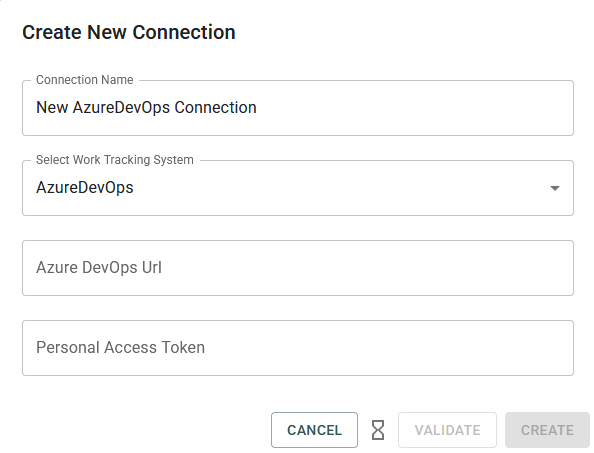
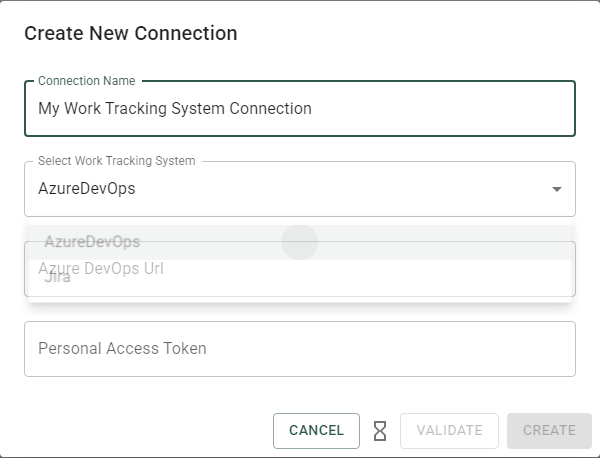
Add tests to update screenshots via E2E tests

diff --git a/Lighthouse.EndToEndTests/tests/specs/settings/WorkTrackingSystems.spec.ts b/Lighthouse.EndToEndTests/tests/specs/settings/WorkTrackingSystems.spec.ts
@@ -1,5 +1,6 @@
 import { TestConfig } from "../../../playwright.config";
 import { expect, test, testWithData } from "../../fixutres/LighthouseFixture";
+import { getPathToDocsAssetsFolder } from "../../helpers/folderPaths";
 import { generateRandomName } from "../../helpers/names";
 
 const workTrackingSystemConfiguration = [
@@ -193,5 +194,27 @@ testWithData(
 			).addNewProject();
 			await newProjectPage.selectWorkTrackingSystem(newName);
 		});
+	},
+);
+
+testWithData(
+	"Take @screenshot create new work tracking system connection dialg",
+	async ({ overviewPage }) => {
+		const settingsPage = await overviewPage.lighthousePage.goToSettings();
+		const workTrackingSystemsPage =
+			await settingsPage.goToWorkTrackingSystems();
+		const workTrackingSystemDialog =
+			await workTrackingSystemsPage.addNewWorkTrackingSystem();
+
+		// Wait for the dialog to be visible
+		await workTrackingSystemDialog.selectWorkTrackingSystem("AzureDevOps");
+		await workTrackingSystemDialog.setConnectionName(
+			"My Work Tracking System Connection",
+		);
+
+		const screenshotLocation = `${getPathToDocsAssetsFolder()}/concepts/general/worktrackingsystem.png`;
+		await workTrackingSystemDialog.page
+			.getByRole("dialog")
+			.screenshot({ path: screenshotLocation });
 	},
 );

diff --git a/Lighthouse.EndToEndTests/playwright.config.ts b/Lighthouse.EndToEndTests/playwright.config.ts
@@ -17,7 +17,7 @@ export class TestConfig {
   };
 
   public static get LighthouseUrl(): string {
-    return TestConfig.getEnvVariable(TestConfig.LIGHTHOUSEURLNAME, "https://localhost:5001/");
+    return TestConfig.getEnvVariable(TestConfig.LIGHTHOUSEURLNAME, "https://localhost:8081/");
   }
 
   public static get AzureDevOpsToken(): string {

diff --git a/Lighthouse.EndToEndTests/tests/helpers/folderPaths.ts b/Lighthouse.EndToEndTests/tests/helpers/folderPaths.ts
@@ -1,0 +1,7 @@
+import path from "node:path";
+
+export function getPathToDocsAssetsFolder(): string {
+	const currentFilePath = __dirname;
+	const docsAssetsPath = path.join(currentFilePath, '..', '..', '..', 'docs', 'assets');
+	return docsAssetsPath;
+}
